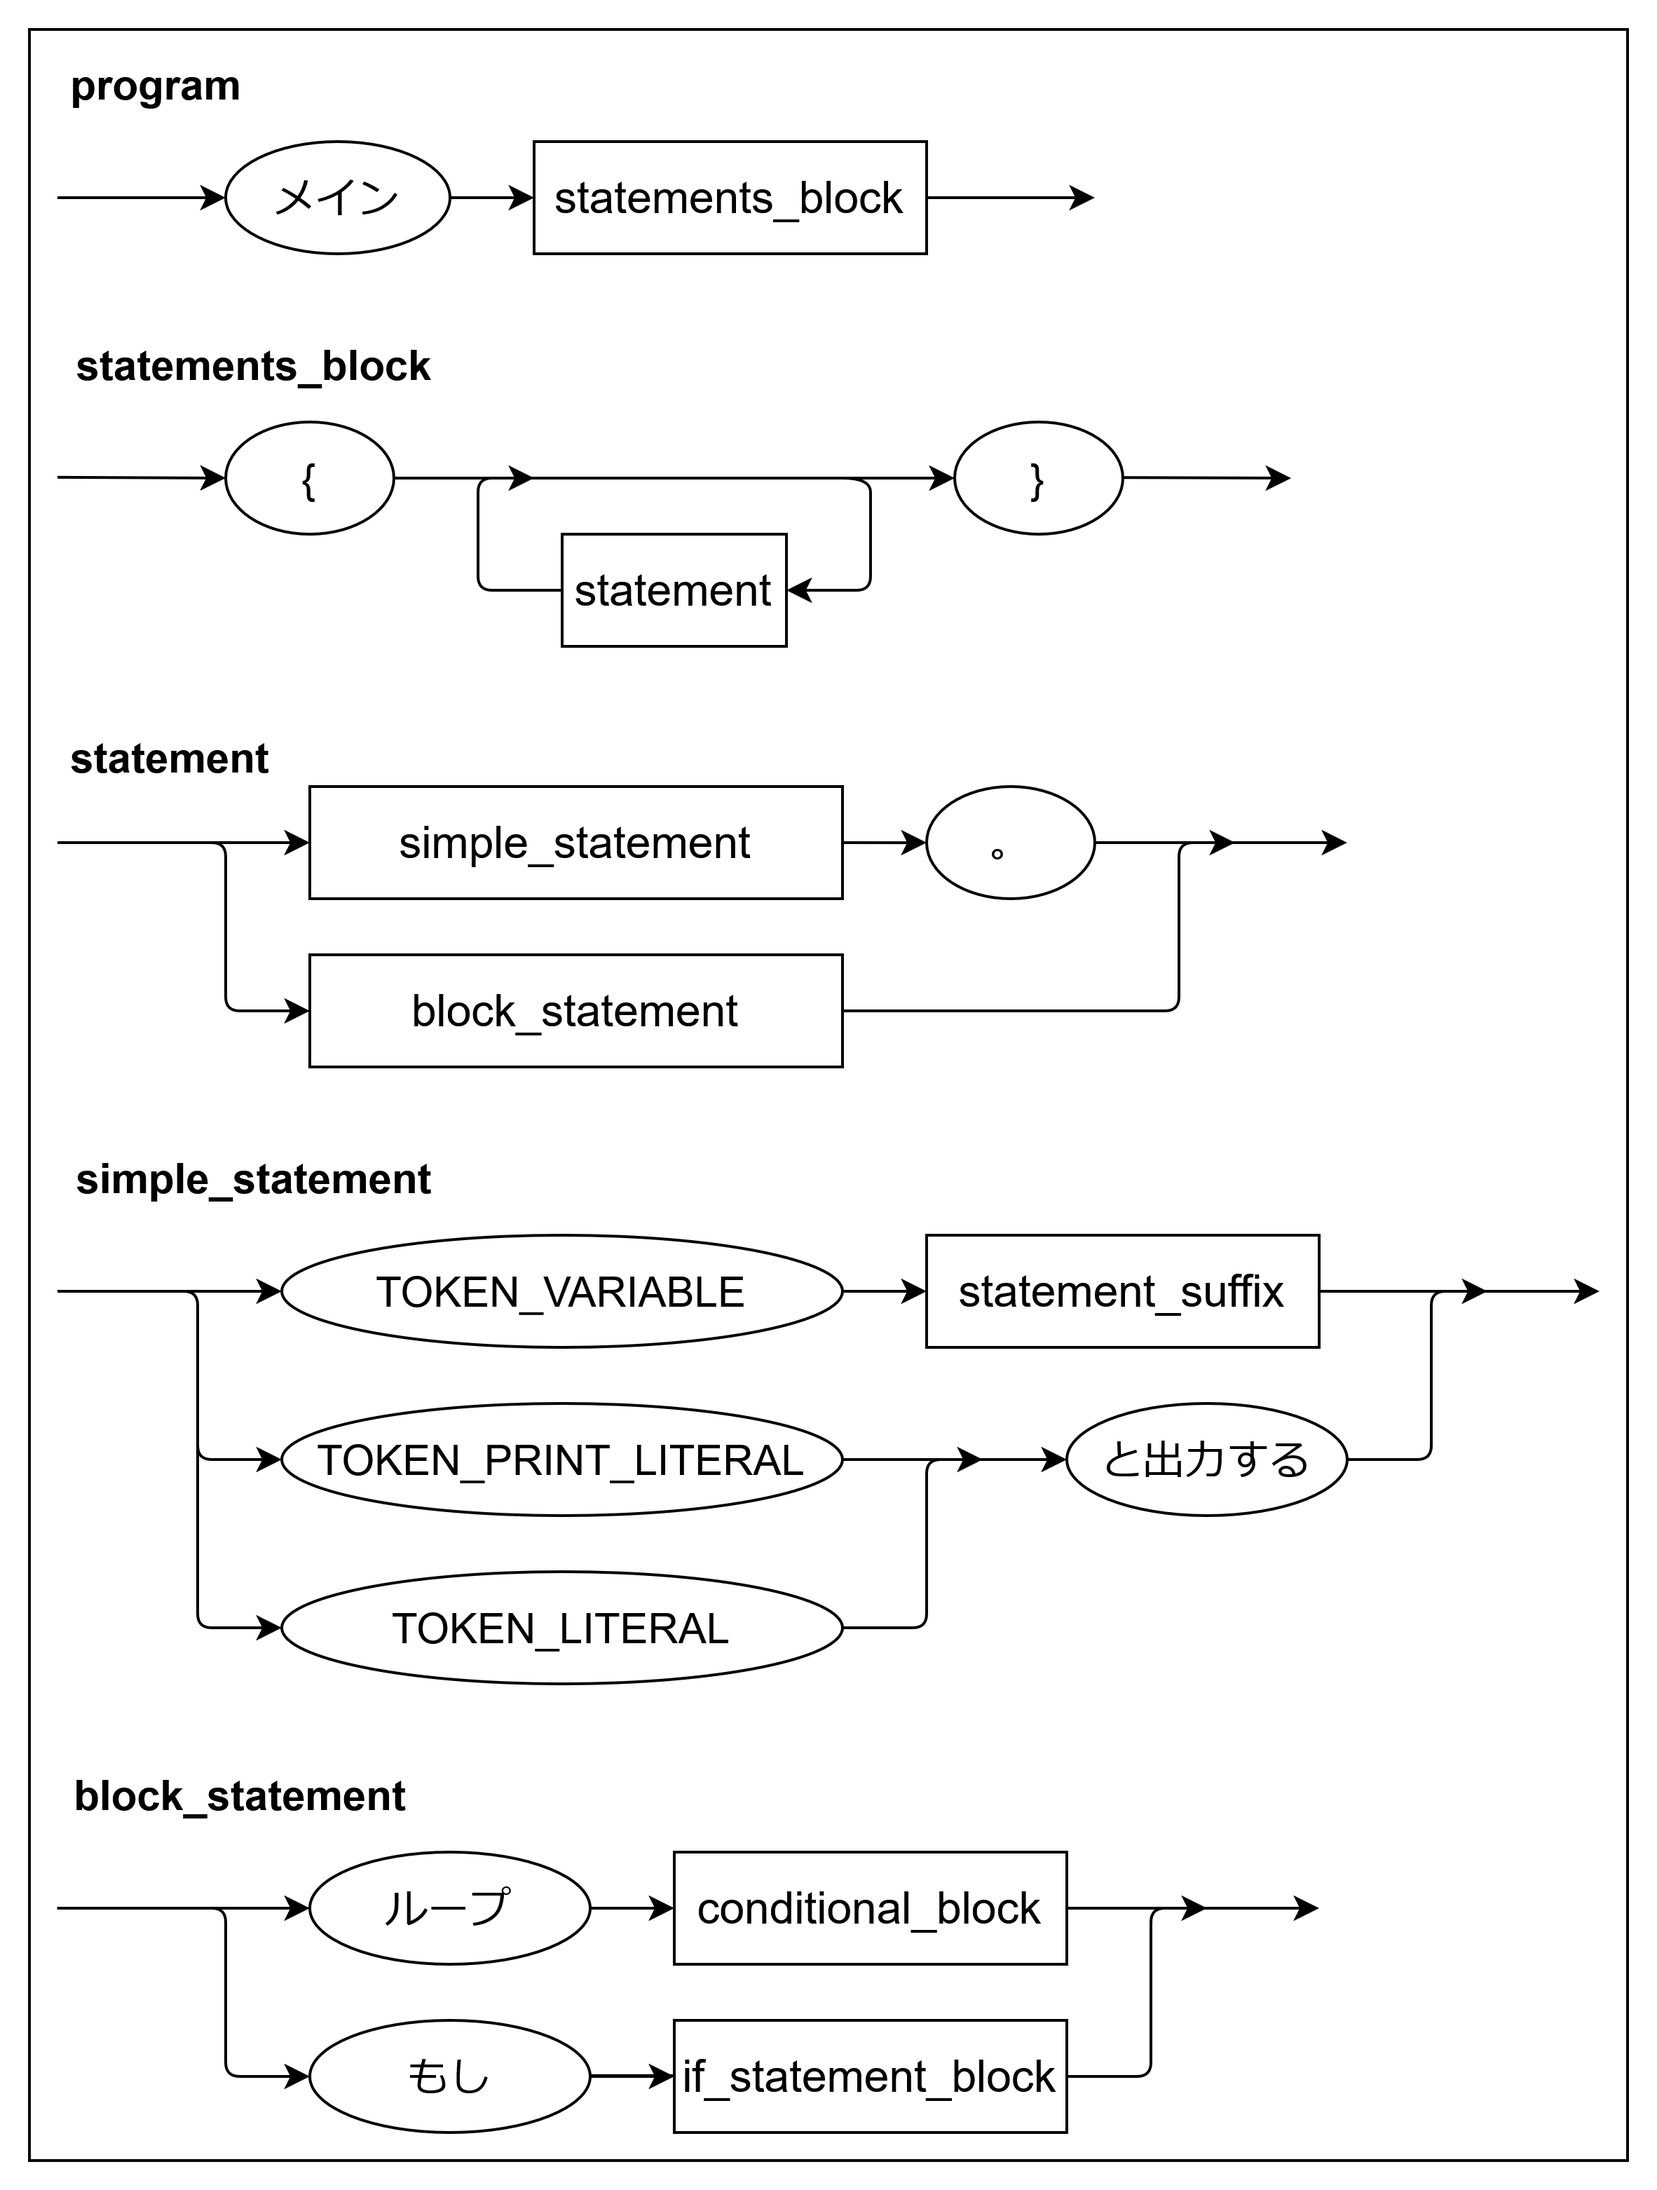
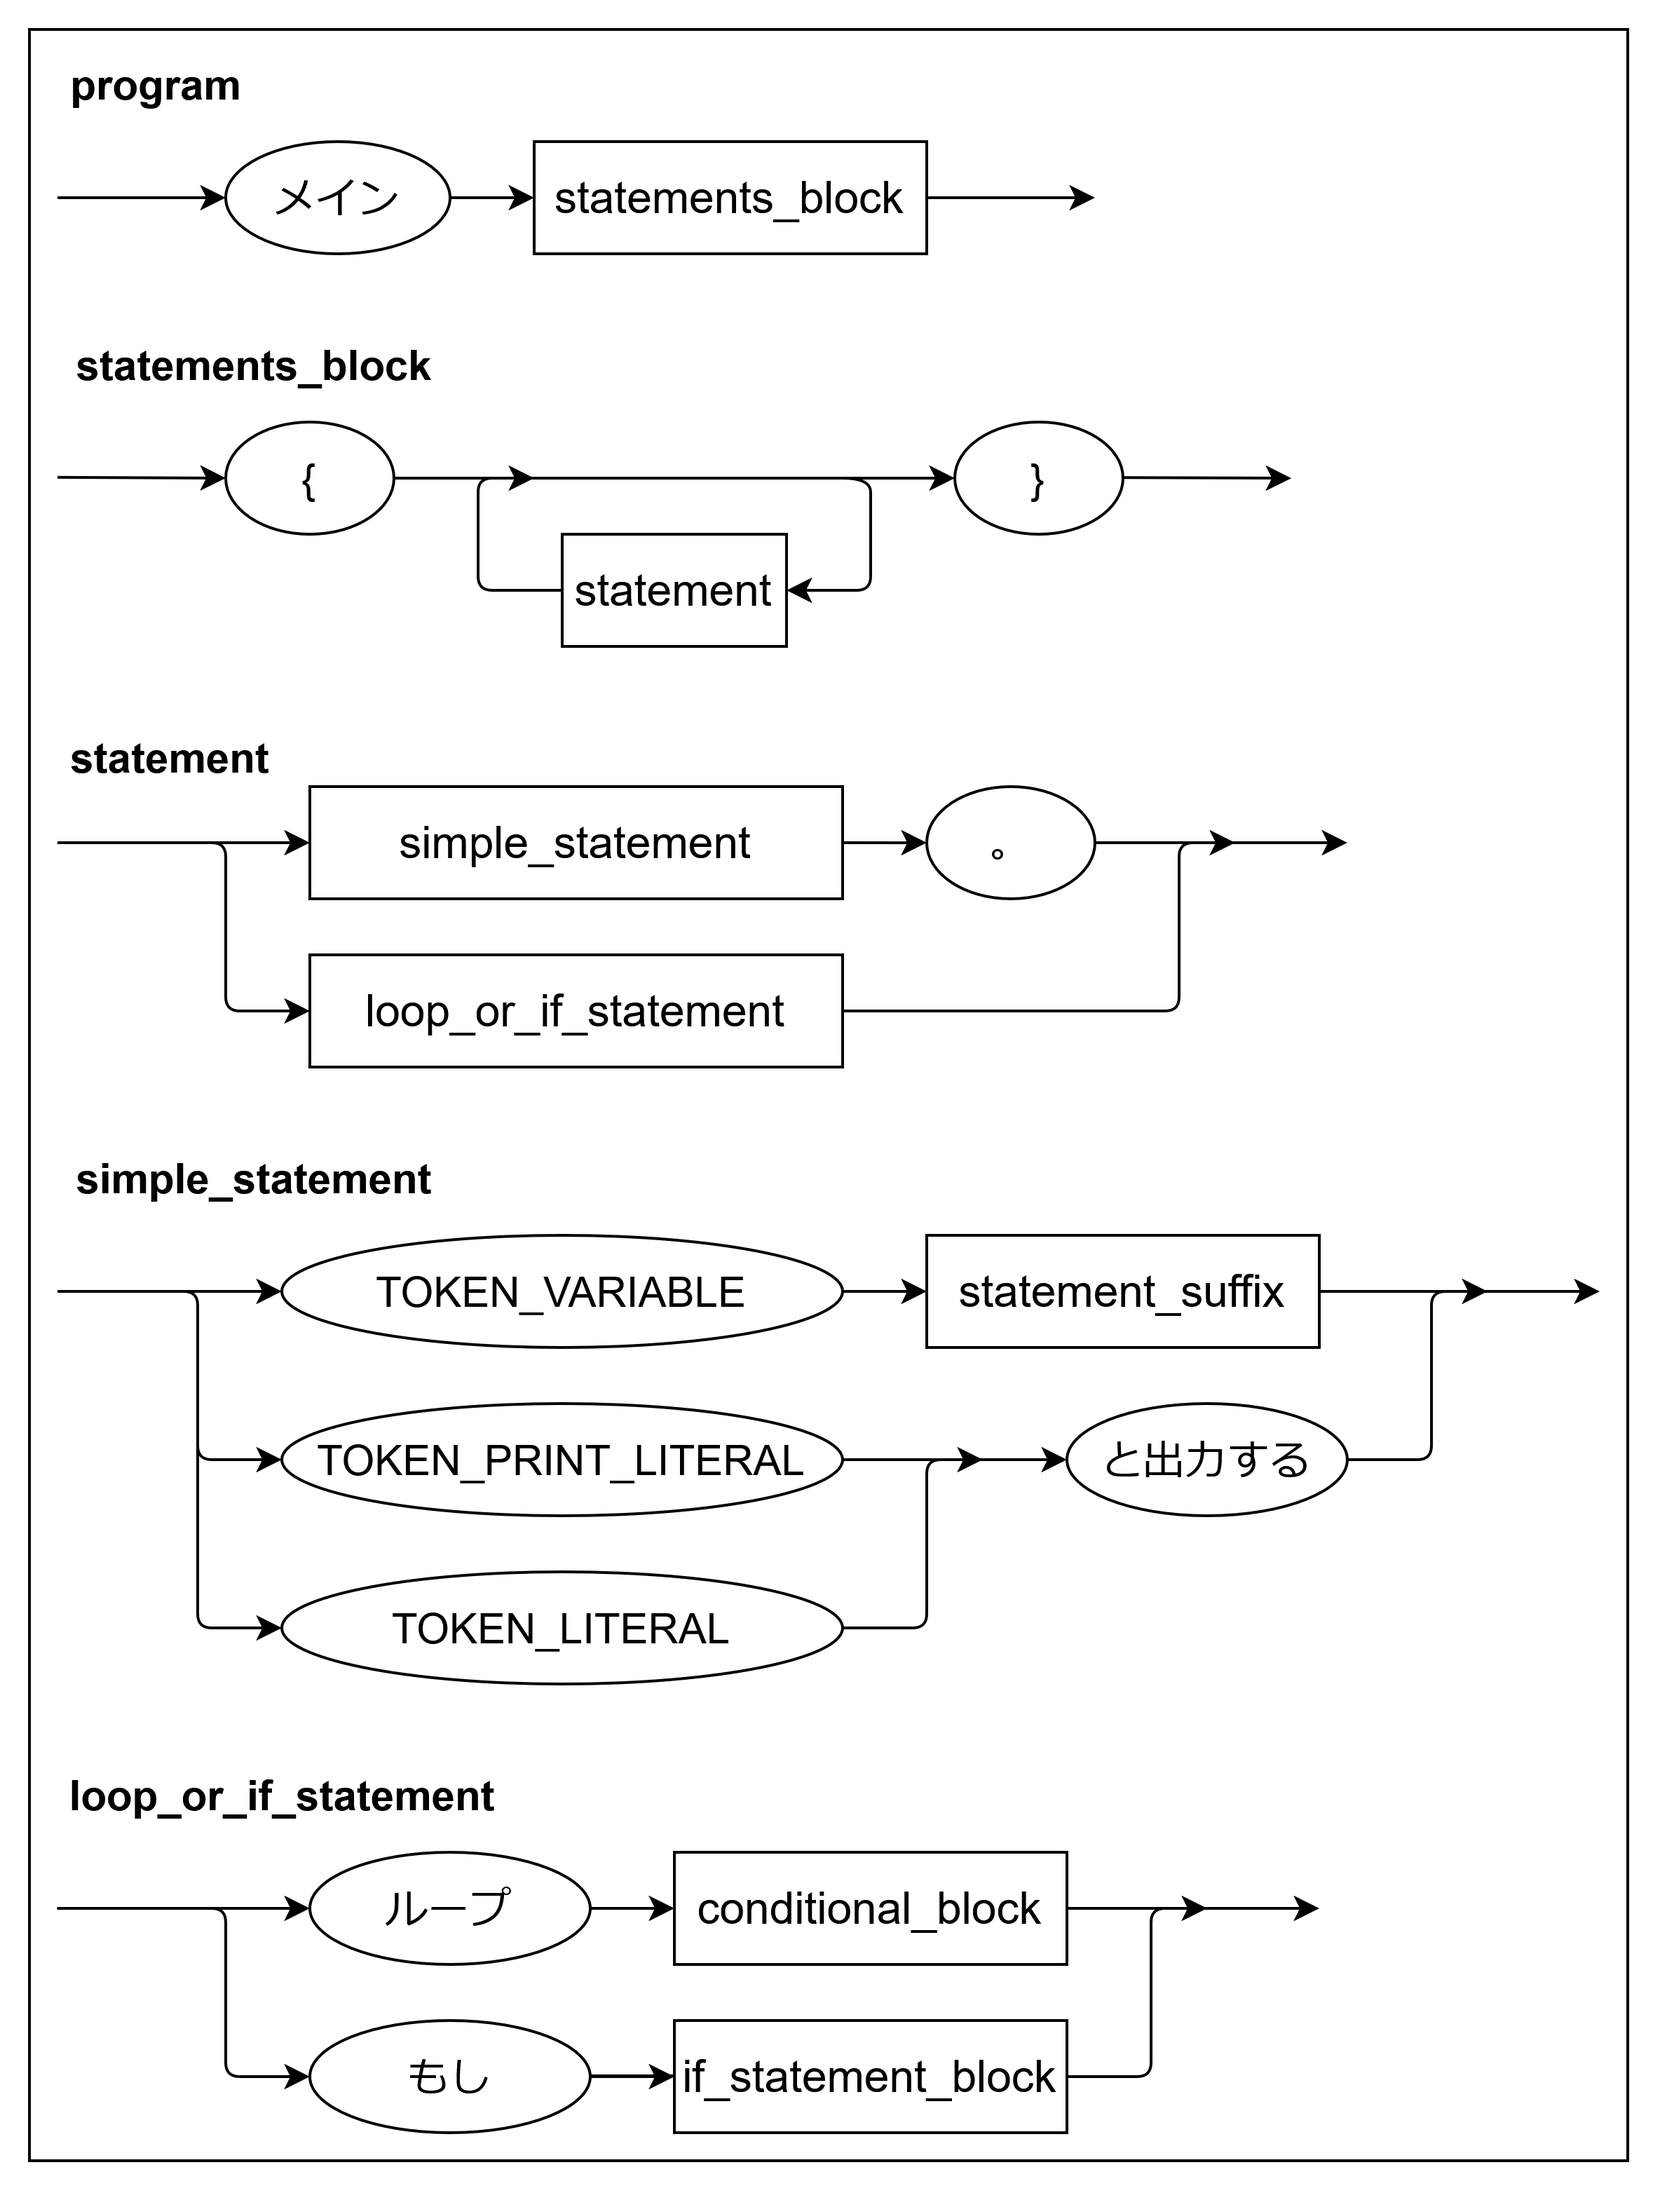
BNFの文法を更新し、block_statementをloop_or_if_statementに変更

diff --git a/docs/specification_document.md b/docs/specification_document.md
@@ -274,12 +274,12 @@ program               ::= "メイン" statements_block
 statements_block      ::= "｛" { statement } "｝"
 
 statement             ::= simple_statement "。"
-                        | block_statement
+                        | loop_or_if_statement
 
 simple_statement      ::= TOKEN_VARIABLE statement_suffix
                         | (TOKEN_PRINT_LITERAL | TOKEN_LITERAL) "と出力する"
 
-block_statement       ::= "ループ" conditional_block
+loop_or_if_statement  ::= "ループ" conditional_block
                         | "もし" if_statement_block
 ```
 
